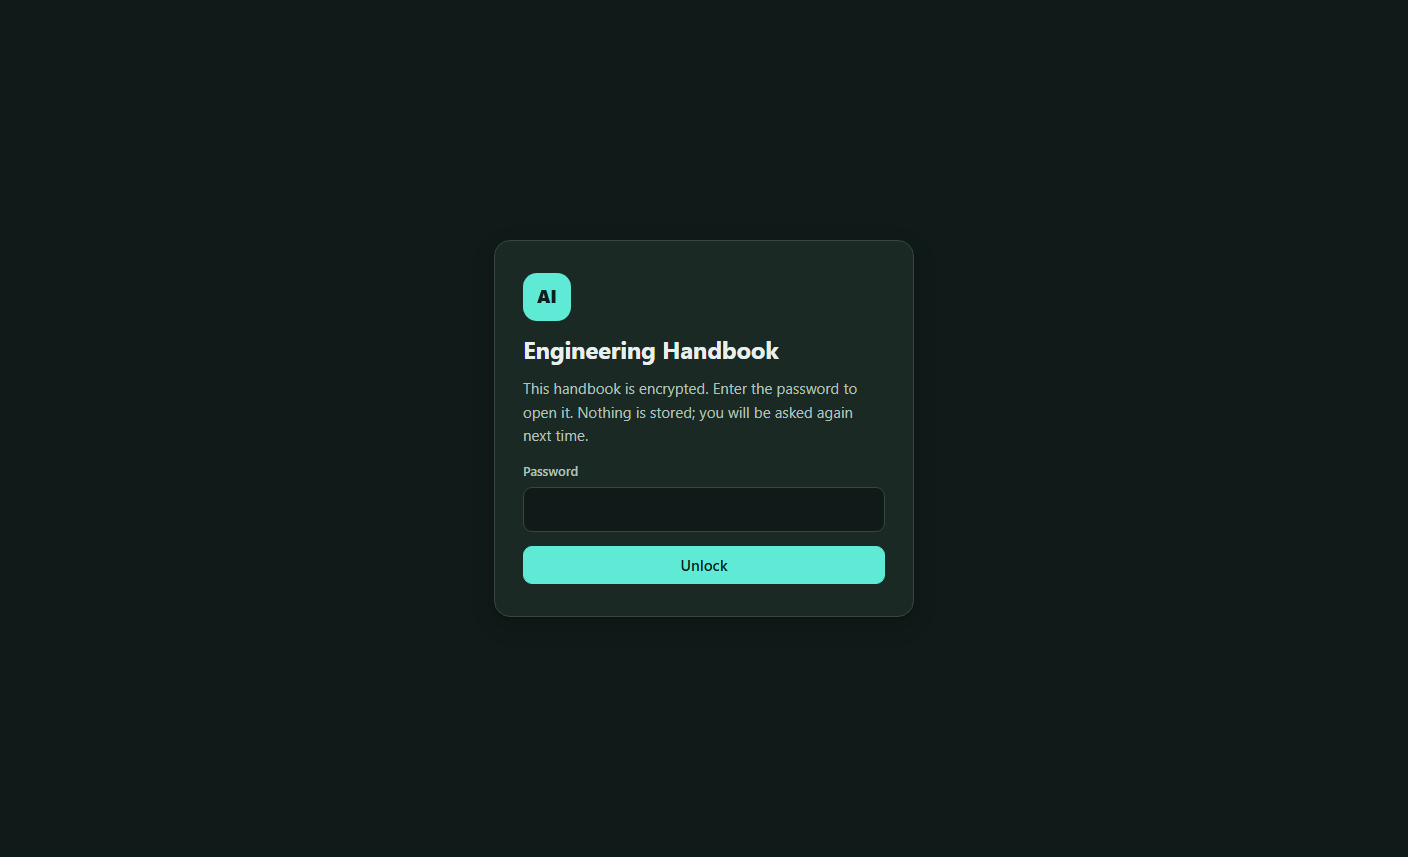
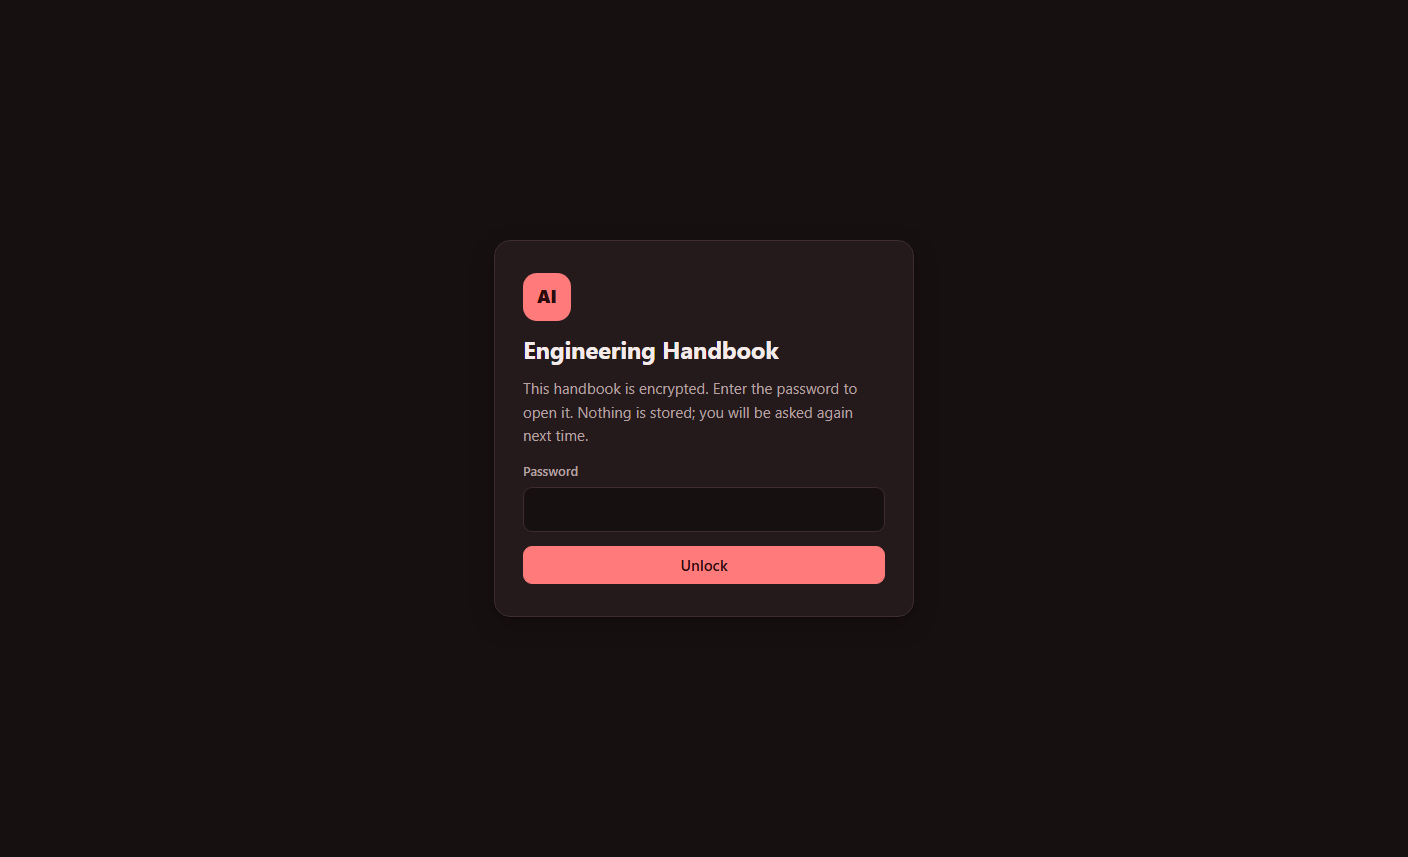
Red theme and themed scrollbars
Crimson accent on warm neutrals in light mode (about 6:1 on white) and a
desaturated coral on warm charcoal in dark mode (about 7:1), so red
signals priority without hurting readability. Success stays green and
review stays amber so red keeps its meaning. Start-here badges, progress
bars, and step markers use the accent. Scrollbars are thin and themed
with a transparent track, replacing the black system bar; color-scheme is
set per theme. Lock screenshots regenerated.

diff --git a/src/style.css b/src/style.css
@@ -1,22 +1,25 @@
 /* ---------- tokens ---------- */
 :root {
-  --bg: #f5f7f3;
-  --sidebar: #edf2ed;
+  color-scheme: light;
+  /* Red palette: crimson accent for emphasis and urgency, warm neutrals for reading.
+     Accent on white is about 6:1 contrast; text on surfaces is above 12:1. */
+  --bg: #fbf7f6;
+  --sidebar: #f6eeec;
   --surface: #ffffff;
-  --surface-2: #eef3ef;
-  --border: #d8e1db;
-  --text: #172522;
-  --muted: #52615c;
-  --accent: #0f766e;
+  --surface-2: #f8f0ee;
+  --border: #ebd9d6;
+  --text: #221417;
+  --muted: #6e5a5d;
+  --accent: #c0182c;
   --accent-text: #ffffff;
-  --accent-soft: #dcefeb;
-  --ok: #166534;
-  --ok-soft: #e0f0e5;
-  --warn: #854d0e;
-  --warn-soft: #fbf0d5;
-  --danger: #b42318;
-  --code-bg: #eff3f0;
-  --shadow: 0 1px 2px rgba(20, 40, 34, 0.04), 0 8px 24px rgba(20, 40, 34, 0.05);
+  --accent-soft: #fde6e6;
+  --ok: #15803d;
+  --ok-soft: #dcfce7;
+  --warn: #b45309;
+  --warn-soft: #fef3c7;
+  --danger: #8f1220;
+  --code-bg: #f8f1f0;
+  --shadow: 0 1px 2px rgba(60, 20, 24, 0.05), 0 8px 24px rgba(60, 20, 24, 0.06);
   --radius: 12px;
   --font: ui-sans-serif, system-ui, -apple-system, "Segoe UI", Roboto, "Helvetica Neue", sans-serif;
   --mono: ui-monospace, "Cascadia Code", "JetBrains Mono", Consolas, "Liberation Mono", monospace;
@@ -31,23 +34,25 @@
 
 @media (prefers-color-scheme: dark) {
   :root:not([data-theme="light"]) {
-    --bg: #101a18;
-    --sidebar: #15211e;
-    --surface: #1b2925;
-    --surface-2: #24332f;
-    --border: #354740;
-    --text: #e8f0ed;
-    --muted: #b2c1bb;
-    --accent: #5eead4;
-    --accent-text: #08211e;
-    --accent-soft: #203d38;
+    color-scheme: dark;
+    /* Dark: desaturated coral accent (about 7:1 on the surface) so red reads as emphasis, not alarm. */
+    --bg: #171011;
+    --sidebar: #1d1415;
+    --surface: #241a1b;
+    --surface-2: #2d2022;
+    --border: #3e2c2f;
+    --text: #f4ebea;
+    --muted: #b7a1a2;
+    --accent: #ff7b7b;
+    --accent-text: #2b0b0d;
+    --accent-soft: #432024;
     --ok: #86efac;
-    --ok-soft: #203d2c;
+    --ok-soft: #1f3a2a;
     --warn: #fcd34d;
     --warn-soft: #413819;
-    --danger: #fca5a5;
-    --code-bg: #14201d;
-    --shadow: 0 1px 2px rgba(0, 0, 0, 0.24), 0 8px 24px rgba(0, 0, 0, 0.16);
+    --danger: #ffb4b4;
+    --code-bg: #1b1314;
+    --shadow: 0 1px 2px rgba(0, 0, 0, 0.3), 0 8px 24px rgba(0, 0, 0, 0.22);
     --tok-kw: #c4b5fd;
     --tok-str: #86efac;
     --tok-num: #fcd34d;
@@ -57,23 +62,24 @@
   }
 }
 :root[data-theme="dark"] {
-  --bg: #101a18;
-  --sidebar: #15211e;
-  --surface: #1b2925;
-  --surface-2: #24332f;
-  --border: #354740;
-  --text: #e8f0ed;
-  --muted: #b2c1bb;
-  --accent: #5eead4;
-  --accent-text: #08211e;
-  --accent-soft: #203d38;
+  color-scheme: dark;
+  --bg: #171011;
+  --sidebar: #1d1415;
+  --surface: #241a1b;
+  --surface-2: #2d2022;
+  --border: #3e2c2f;
+  --text: #f4ebea;
+  --muted: #b7a1a2;
+  --accent: #ff7b7b;
+  --accent-text: #2b0b0d;
+  --accent-soft: #432024;
   --ok: #86efac;
-  --ok-soft: #203d2c;
+  --ok-soft: #1f3a2a;
   --warn: #fcd34d;
   --warn-soft: #413819;
-  --danger: #fca5a5;
-  --code-bg: #14201d;
-  --shadow: 0 1px 2px rgba(0, 0, 0, 0.24), 0 8px 24px rgba(0, 0, 0, 0.16);
+  --danger: #ffb4b4;
+  --code-bg: #1b1314;
+  --shadow: 0 1px 2px rgba(0, 0, 0, 0.3), 0 8px 24px rgba(0, 0, 0, 0.22);
   --tok-kw: #c4b5fd;
   --tok-str: #86efac;
   --tok-num: #fcd34d;
@@ -465,7 +471,7 @@ tr:last-child td { border-bottom: 0; }
 .idea-category-nav { display: flex; flex-wrap: wrap; gap: 7px; margin: 16px 0; }
 .idea-category-nav .chip { text-decoration: none; }
 .topic-index { max-height: calc(100vh - 150px); overflow-y: auto; }
-.action-toast { position: fixed; z-index: 50; right: 20px; bottom: 20px; max-width: min(420px, calc(100vw - 28px)); padding: 11px 16px; border: 1px solid rgba(255,255,255,.12); border-radius: 10px; color: #f8faf9; background: #172522; box-shadow: 0 12px 32px rgba(10, 25, 21, .22); font-size: 13px; font-weight: 600; opacity: 0; pointer-events: none; transform: translateY(8px); transition: opacity .16s ease, transform .16s ease; }
+.action-toast { position: fixed; z-index: 50; right: 20px; bottom: 20px; max-width: min(420px, calc(100vw - 28px)); padding: 11px 16px; border: 1px solid rgba(255,255,255,.12); border-radius: 10px; color: #fff5f4; background: #2a1518; box-shadow: 0 12px 32px rgba(10, 25, 21, .22); font-size: 13px; font-weight: 600; opacity: 0; pointer-events: none; transform: translateY(8px); transition: opacity .16s ease, transform .16s ease; }
 .action-toast.visible { opacity: 1; transform: translateY(0); }
 .btn.ok.active, .btn.warn.active { font-weight: 650; }
 .btn:active, .chip:active, .suggestion:active, .filter-chip:active { transform: translateY(1px); }
@@ -536,3 +542,19 @@ tr:last-child td { border-bottom: 0; }
 }
 .doc-layout.no-toc { grid-template-columns: 1fr; }
 .doc-layout.no-toc .topic-doc { max-width: 860px; }
+
+/* ---------- scrollbars: thin, themed, no black track ---------- */
+* { scrollbar-width: thin; scrollbar-color: var(--border) transparent; }
+*:hover { scrollbar-color: color-mix(in srgb, var(--muted) 55%, var(--border)) transparent; }
+::-webkit-scrollbar { width: 10px; height: 10px; }
+::-webkit-scrollbar-track { background: transparent; }
+::-webkit-scrollbar-corner { background: transparent; }
+::-webkit-scrollbar-thumb { background: var(--border); border-radius: 99px; border: 2px solid transparent; background-clip: padding-box; }
+::-webkit-scrollbar-thumb:hover { background: color-mix(in srgb, var(--muted) 55%, var(--border)); border: 2px solid transparent; background-clip: padding-box; }
+.main, .sidebar, .topic-index, .code pre, .table-wrap { scrollbar-gutter: auto; }
+
+/* red accent: urgency cues on what matters most */
+.badge.start { background: var(--accent); color: var(--accent-text); }
+.progress-fill { background: linear-gradient(90deg, var(--accent), color-mix(in srgb, var(--accent) 70%, #ff9a6b)); }
+.step-marker, .concept-index, .module-number { background: var(--accent-soft); color: var(--accent); }
+.hero h1 em { font-style: normal; color: var(--accent); }
